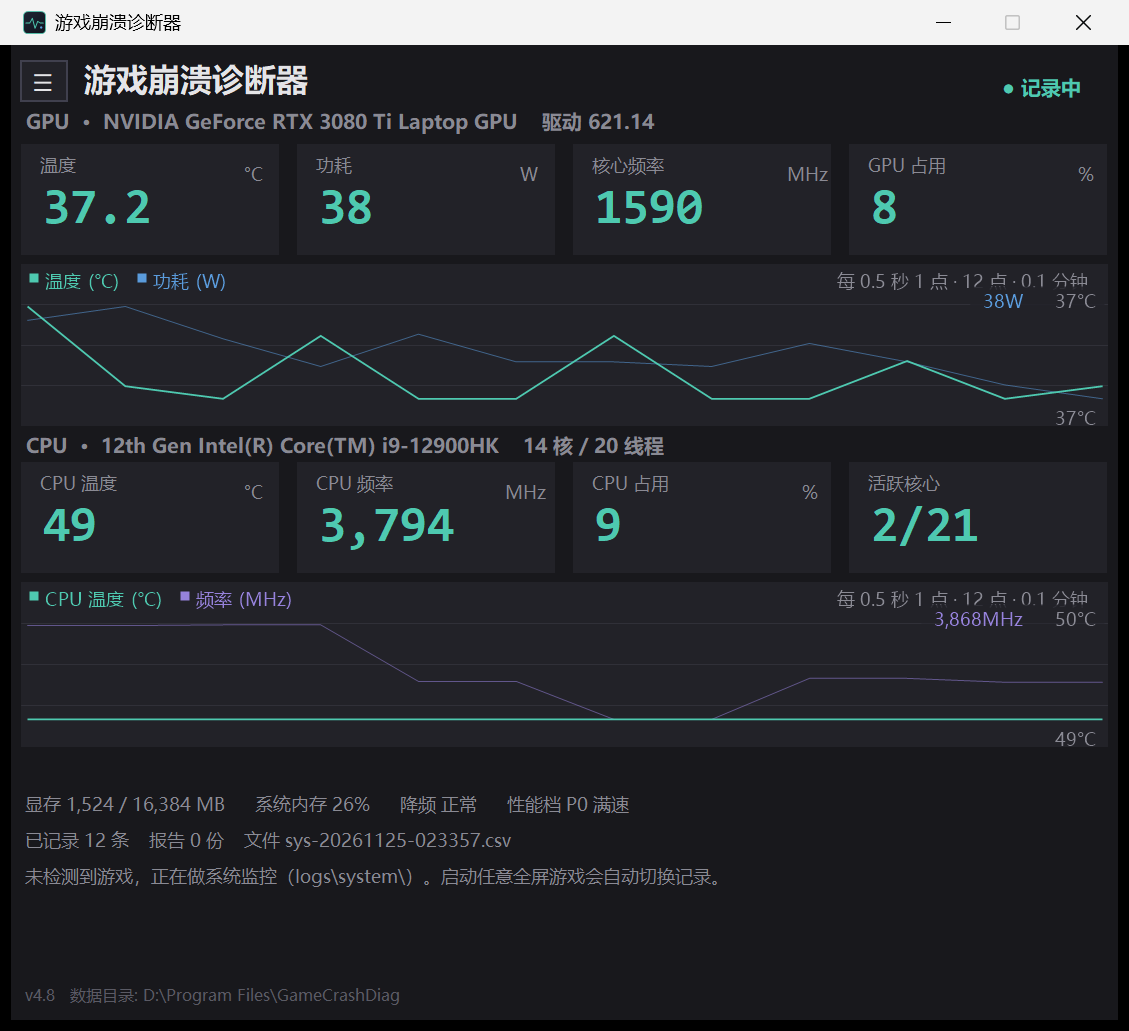
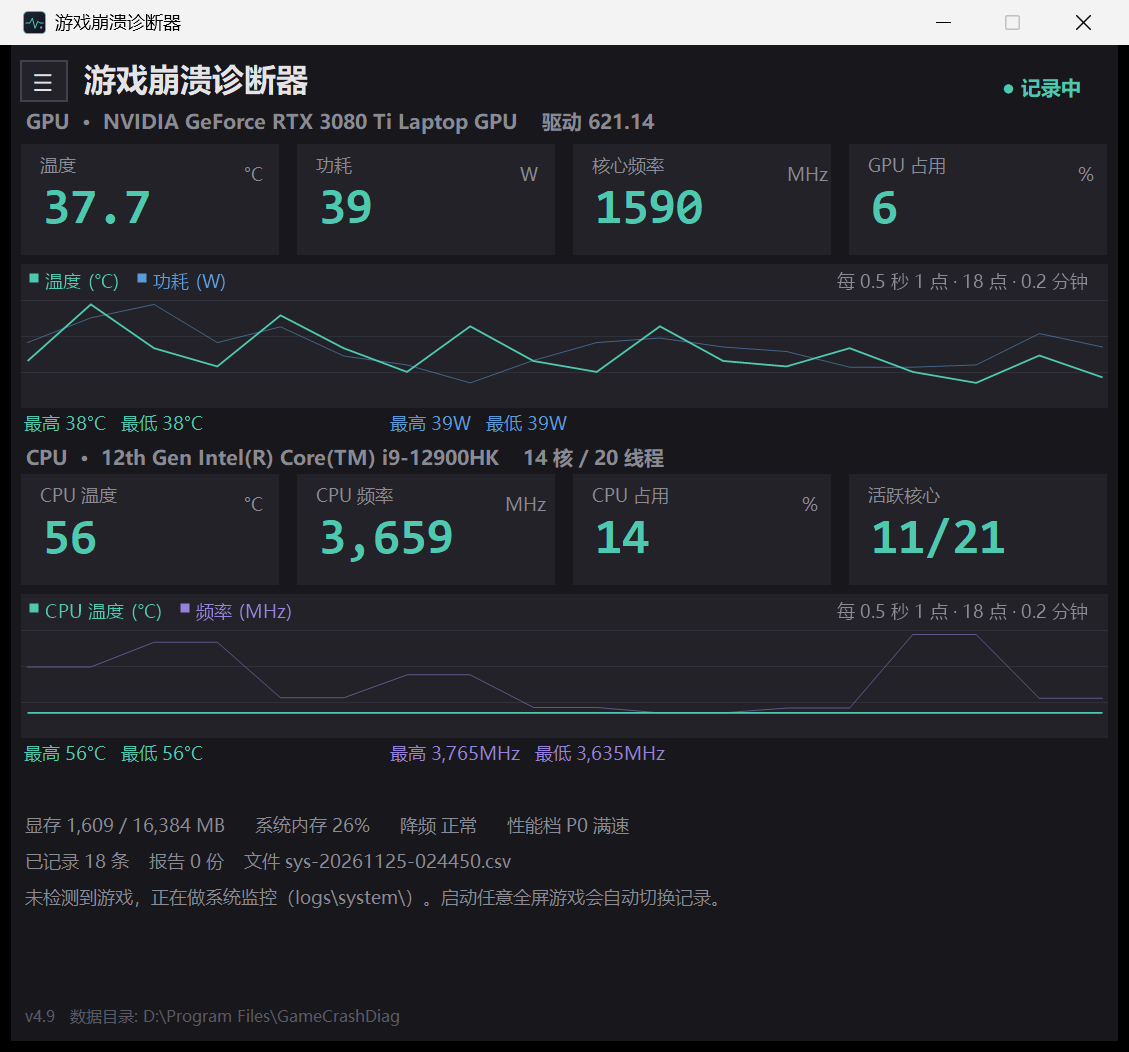
feat: v4.9 - 最高/最低移到图外单独一行
- ChartRenderer 不再在图内画最高/最低标注
- 两张图下方各加一行统计：最高/最低 按曲线颜色区分（温度青绿、功耗蓝、频率紫）
- 图表高度 108 -> 96，为统计行腾出空间
- 修复颜色变量在定义前被引用导致启动失败

diff --git a/ChartRenderer.cs b/ChartRenderer.cs
@@ -1,4 +1,4 @@
-// BF6 监控器 —— 曲线绘制核心（编译成 .NET 类型，避免 PowerShell 逐点解释的开销）
+// BF6 监控器 —— 曲线绘制核心（编译成 .NET 类型，避免 PowerShell 逐点解释的开销）
 // 由 BF6Monitor.ps1 通过 Add-Type 加载
 using System;
 using System.Collections.Generic;
@@ -135,22 +135,7 @@ public static class ChartRenderer
                 }
             }
 
-            // 右侧刻度（按实际文字宽度排布，DPI 放大后也不会重叠）
-            string sMaxA = string.Format("{0:N0}{1}", maxA, unitA);
-            string sMinA = string.Format("{0:N0}{1}", minA, unitA);
-            string sMaxB = string.Format("{0:N0}{1}", maxB, unitB);
-            float wMaxA = g.MeasureString(sMaxA, font).Width;
-            float wMaxB = g.MeasureString(sMaxB, font).Width;
-            // 右上角刻度标签加底衬，避免与曲线重叠
-            float labX = w - wMaxA - wMaxB - 40f;
-            float labW = wMaxA + wMaxB + 40f;
-            using (SolidBrush bgBrush = new SolidBrush(Color.FromArgb(220, card)))
-            {
-                g.FillRectangle(bgBrush, labX - 4f, 22f, labW, 19f);
-            }
-            g.DrawString(sMaxA, font, brushDim, w - wMaxA - 8f, 25f);
-            g.DrawString(sMinA, font, brushDim, w - wMaxA - 8f, h - 20f);
-            g.DrawString(sMaxB, font, brushB, w - wMaxA - wMaxB - 34f, 25f);
+            // 最高/最低不再画在图内，改由界面文本行展示
         }
     }
 }
